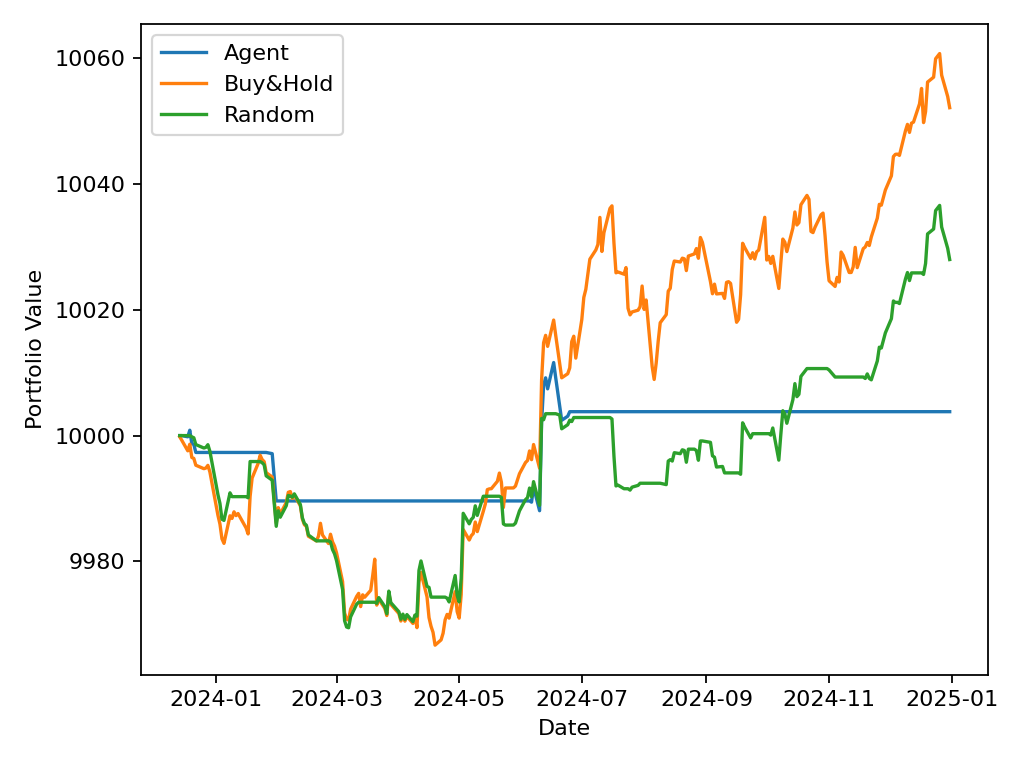
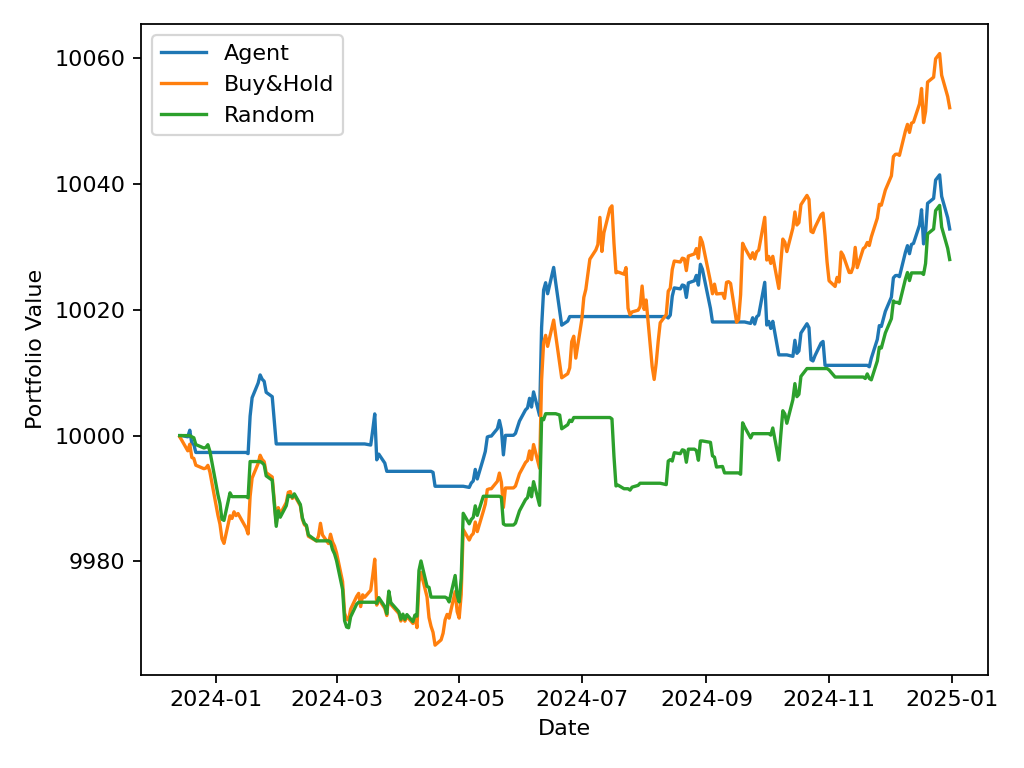
Switch tickers to AAPL/TSLA, add MACD features, tune agent thresholds, add run_all.py and results
- Changed TICKERS from [PLTR, COIN, AMD, NFLX, F] to [AAPL, TSLA, AMD, NFLX, F]
- Added MACD + signal line features to src/features.py
- Tuned agent buy/sell thresholds, stop-loss, take-profit in src/config.py
- Relaxed uptrend condition in src/agent.py
- Added GridSearchCV with TimeSeriesSplit for hyperparameter tuning in src/train_model.py
- Added run_all.py pipeline orchestrator with --tune flag
- Added backtest plots, all_results.csv/txt, and feature_importance.csv to outputs/

diff --git a/run_all.py b/run_all.py
@@ -1,0 +1,192 @@
+from __future__ import annotations
+import argparse
+import re
+import sys
+from pathlib import Path
+
+import joblib
+import pandas as pd
+from sklearn.metrics import accuracy_score, f1_score, precision_score, recall_score
+
+ROOT = Path(__file__).parent
+sys.path.insert(0, str(ROOT))
+
+from src.data import load_csv
+from src.features import make_features
+from src.train_model import time_split
+from src.utils import ensure_dir
+
+TICKERS = ["AAPL", "TSLA", "AMD", "NFLX", "F"]
+START = "2018-01-01"
+END = "2024-01-01"
+
+BACKTEST_RE = re.compile(
+    r"(\w[\w&]*):\s*return=\s*([-+]?\d+\.\d+)%\s*\|\s*maxDD=\s*(\d+\.\d+)%\s*\|\s*trades=(\d+)"
+)
+
+
+def run(cmd: list[str]) -> tuple[int, str]:
+    import subprocess
+    proc = subprocess.run(cmd, cwd=str(ROOT), capture_output=True, text=True)
+    combined = (proc.stdout or "") + ("\n" + proc.stderr if proc.stderr else "")
+    return proc.returncode, combined
+
+
+def classification_metrics(ticker: str) -> dict:
+    artifact_path = ROOT / "models" / f"{ticker}_rf.joblib"
+    artifact = joblib.load(artifact_path)
+    model = artifact["model"]
+    cols = artifact["feature_cols"]
+    cfg = artifact["config"]
+
+    raw = load_csv(ticker)
+    df = make_features(raw)
+    _, _, test = time_split(df, cfg)
+
+    X_test, y_test = test[cols], test["y_up"]
+    y_pred = model.predict(X_test)
+
+    return {
+        "accuracy": accuracy_score(y_test, y_pred),
+        "precision": precision_score(y_test, y_pred, zero_division=0),
+        "recall": recall_score(y_test, y_pred, zero_division=0),
+        "f1": f1_score(y_test, y_pred, zero_division=0),
+    }
+
+
+def parse_backtest(output: str) -> dict:
+    result = {}
+    for name, ret, mdd, trades in BACKTEST_RE.findall(output):
+        result[name] = {
+            "return": float(ret),
+            "maxDD": float(mdd),
+            "trades": int(trades),
+        }
+    return result
+
+
+def build_row(ticker: str, clf: dict, fin: dict) -> dict:
+    row: dict = {"ticker": ticker}
+    row.update({f"clf_{k}": v for k, v in clf.items()})
+    for strategy in ("Agent", "Buy&Hold", "Random"):
+        prefix = strategy.replace("&", "")
+        data = fin.get(strategy, {"return": float("nan"), "maxDD": float("nan"), "trades": float("nan")})
+        row[f"{prefix}_return%"] = data["return"]
+        row[f"{prefix}_maxDD%"] = data["maxDD"]
+        row[f"{prefix}_trades"] = data["trades"]
+    return row
+
+
+def pretty_table(df: pd.DataFrame) -> str:
+    clf_cols = ["clf_accuracy", "clf_precision", "clf_recall", "clf_f1"]
+    fin_cols = [c for c in df.columns if c not in ["ticker"] + clf_cols]
+
+    clf_display = df[["ticker"] + clf_cols].copy()
+    clf_display.columns = ["Ticker", "Accuracy", "Precision", "Recall", "F1"]
+
+    fin_display = df[["ticker"] + fin_cols].copy()
+    fin_display.columns = (
+        ["Ticker"]
+        + [c.replace("_", " ") for c in fin_cols]
+    )
+
+    lines = [
+        "=== Classification Metrics (Test Set) ===",
+        clf_display.to_string(index=False, float_format=lambda x: f"{x:.4f}"),
+        "",
+        "=== Financial Metrics (Backtest) ===",
+        fin_display.to_string(index=False, float_format=lambda x: f"{x:.2f}"),
+    ]
+    return "\n".join(lines)
+
+
+def main():
+    parser = argparse.ArgumentParser()
+    parser.add_argument("--tune", action="store_true")
+    parser.add_argument("--skip-data", action="store_true")
+    parser.add_argument("--skip-train", action="store_true")
+    args = parser.parse_args()
+
+    ensure_dir(ROOT / "outputs")
+
+    rows = []
+
+    for ticker in TICKERS:
+        print(f"\n{'='*60}")
+        print(f"  {ticker}")
+        print(f"{'='*60}")
+
+        # 1) Data
+        csv_path = ROOT / "data" / "raw" / f"{ticker}.csv"
+        if not args.skip_data and not csv_path.exists():
+            print(f"[data] downloading {ticker}...")
+            cmd = [sys.executable, "-m", "src.data", "--ticker", ticker, "--start", START, "--end", END]
+            rc, out = run(cmd)
+            print(out.strip())
+            if rc != 0:
+                print(f"[ERROR] data step failed for {ticker}, skipping.")
+                continue
+        else:
+            print(f"[data] skipped (CSV exists or --skip-data)")
+
+        # 2) Train
+        if not args.skip_train:
+            print(f"[train] training {ticker}{'  (--tune)' if args.tune else ''}...")
+            cmd = [sys.executable, "-m", "src.train_model", "--ticker", ticker]
+            if args.tune:
+                cmd.append("--tune")
+            rc, out = run(cmd)
+            print(out.strip())
+            if rc != 0:
+                print(f"[ERROR] train step failed for {ticker}, skipping.")
+                continue
+        else:
+            print(f"[train] skipped (--skip-train)")
+
+        # 3) Classification metrics on test set
+        try:
+            clf = classification_metrics(ticker)
+            print(f"[metrics] acc={clf['accuracy']:.4f}  prec={clf['precision']:.4f}  "
+                  f"rec={clf['recall']:.4f}  f1={clf['f1']:.4f}")
+        except Exception as exc:
+            print(f"[ERROR] could not compute metrics for {ticker}: {exc}")
+            clf = {"accuracy": float("nan"), "precision": float("nan"),
+                   "recall": float("nan"), "f1": float("nan")}
+
+        # 4) Backtest
+        print(f"[backtest] running {ticker}...")
+        cmd = [sys.executable, "-m", "src.backtest", "--ticker", ticker]
+        rc, out = run(cmd)
+        print(out.strip())
+        fin = parse_backtest(out)
+        if not fin:
+            print(f"[WARN] no backtest metrics parsed for {ticker}")
+
+        rows.append(build_row(ticker, clf, fin))
+
+    if not rows:
+        print("\nNo results to report.")
+        return
+
+    results_df = pd.DataFrame(rows)
+
+    numeric_cols = [c for c in results_df.columns if c != "ticker"]
+    avg_row = results_df[numeric_cols].mean().to_dict()
+    avg_row["ticker"] = "AVG"
+    results_df = pd.concat([results_df, pd.DataFrame([avg_row])], ignore_index=True)
+
+    out_csv = ROOT / "outputs" / "all_results.csv"
+    out_txt = ROOT / "outputs" / "all_results.txt"
+
+    results_df.to_csv(out_csv, index=False)
+    print(f"\nSaved: {out_csv}")
+
+    txt = pretty_table(results_df)
+    out_txt.write_text(txt, encoding="utf-8")
+    print(f"Saved: {out_txt}")
+
+    print("\n" + txt)
+
+
+if __name__ == "__main__":
+    main()

diff --git a/src/train_model.py b/src/train_model.py
@@ -6,6 +6,7 @@ import pandas as pd
 
 from sklearn.ensemble import RandomForestClassifier
 from sklearn.metrics import accuracy_score, f1_score, confusion_matrix, classification_report
+from sklearn.model_selection import GridSearchCV, TimeSeriesSplit
 
 from src.config import Config
 from src.data import load_csv
@@ -26,6 +27,7 @@ def time_split(df: pd.DataFrame, cfg: Config):
 def main():
     parser = argparse.ArgumentParser()
     parser.add_argument("--ticker", required=True)
+    parser.add_argument("--tune", action="store_true")
     args = parser.parse_args()
 
     cfg = Config()
@@ -40,14 +42,35 @@ def main():
     X_train, y_train = train[cols], train["y_up"]
     X_val, y_val = val[cols], val["y_up"]
 
-    model = RandomForestClassifier(
-        n_estimators=300,
-        random_state=cfg.seed,
-        class_weight="balanced",
-        min_samples_leaf=2,
-        n_jobs=-1,
-    )
-    model.fit(X_train, y_train)
+    if args.tune:
+        param_grid = {
+            "n_estimators": [100, 200, 300, 500],
+            "min_samples_leaf": [1, 2, 5],
+            "max_features": ["sqrt", "log2"],
+        }
+        base = RandomForestClassifier(
+            random_state=cfg.seed,
+            n_jobs=-1,
+        )
+        gs = GridSearchCV(
+            base,
+            param_grid,
+            scoring="f1",
+            cv=TimeSeriesSplit(n_splits=5),
+            n_jobs=-1,
+        )
+        gs.fit(X_train, y_train)
+        print(f"Best params: {gs.best_params_}")
+        print(f"Best CV F1:  {gs.best_score_:.4f}")
+        model = gs.best_estimator_
+    else:
+        model = RandomForestClassifier(
+            n_estimators=300,
+            random_state=cfg.seed,
+            min_samples_leaf=2,
+            n_jobs=-1,
+        )
+        model.fit(X_train, y_train)
 
     pred_val = model.predict(X_val)
     acc = accuracy_score(y_val, pred_val)

diff --git a/src/features.py b/src/features.py
@@ -13,6 +13,13 @@ def rsi(series: pd.Series, period: int = 14) -> pd.Series:
     rs = avg_gain / (avg_loss + 1e-9)
     return 100 - (100 / (1 + rs))
 
+def macd(series: pd.Series, fast: int = 12, slow: int = 26, signal: int = 9):
+    ema_fast = series.ewm(span=fast, adjust=False).mean()
+    ema_slow = series.ewm(span=slow, adjust=False).mean()
+    macd_line = ema_fast - ema_slow
+    signal_line = macd_line.ewm(span=signal, adjust=False).mean()
+    return macd_line, signal_line
+
 def make_features(df: pd.DataFrame) -> pd.DataFrame:
     df = df.copy()
 
@@ -58,6 +65,11 @@ def make_features(df: pd.DataFrame) -> pd.DataFrame:
     # RSI
     df["rsi_14"] = rsi(df["Close"], 14)
 
+    # MACD
+    macd_vals = macd(df["Close"], fast=12, slow=26, signal=9)
+    df["macd"] = macd_vals[0]
+    df["macd_signal"] = macd_vals[1]
+
     # Label: next-day direction
     df["y_up"] = (df["Close"].shift(-1) > df["Close"]).astype(int)
 
@@ -72,5 +84,7 @@ def feature_columns() -> list[str]:
         "vol_5", "mom_5",
         "volchg_1",
         "rsi_14",
-        "sma_ratio"
+        "sma_ratio",
+        "macd",
+        "macd_signal",
     ]

diff --git a/src/config.py b/src/config.py
@@ -12,9 +12,9 @@ class Config:
     fee_rate: float = 0.001      # 0.1% per trade
 
     # Agent policy thresholds
-    buy_threshold: float = 0.48  # P(up) >= this and trend ok => buy
-    sell_threshold: float = 0.45 # P(up) <= this or trend breaks => sell
-    stop_loss: float = 0.06      # -3% from entry => sell
-    take_profit: float = 0.50   # +5% from entry => sell
+    buy_threshold: float = 0.42  # P(up) >= this and trend ok => buy
+    sell_threshold: float = 0.40 # P(up) <= this or trend breaks => sell
+    stop_loss: float = 0.08      # -3% from entry => sell
+    take_profit: float = 0.25   # +5% from entry => sell
 
     seed: int = 42

diff --git a/src/agent.py b/src/agent.py
@@ -35,7 +35,7 @@ class TradingAgent:
                 return "SELL"
 
         # Trend definitions
-        uptrend = (sma_5 >= sma_10) and (price >= sma_10)
+        uptrend = (sma_5 >= sma_10)
         downtrend = (sma_5 < sma_10) and (price < sma_10)
 
         if not state.holding: